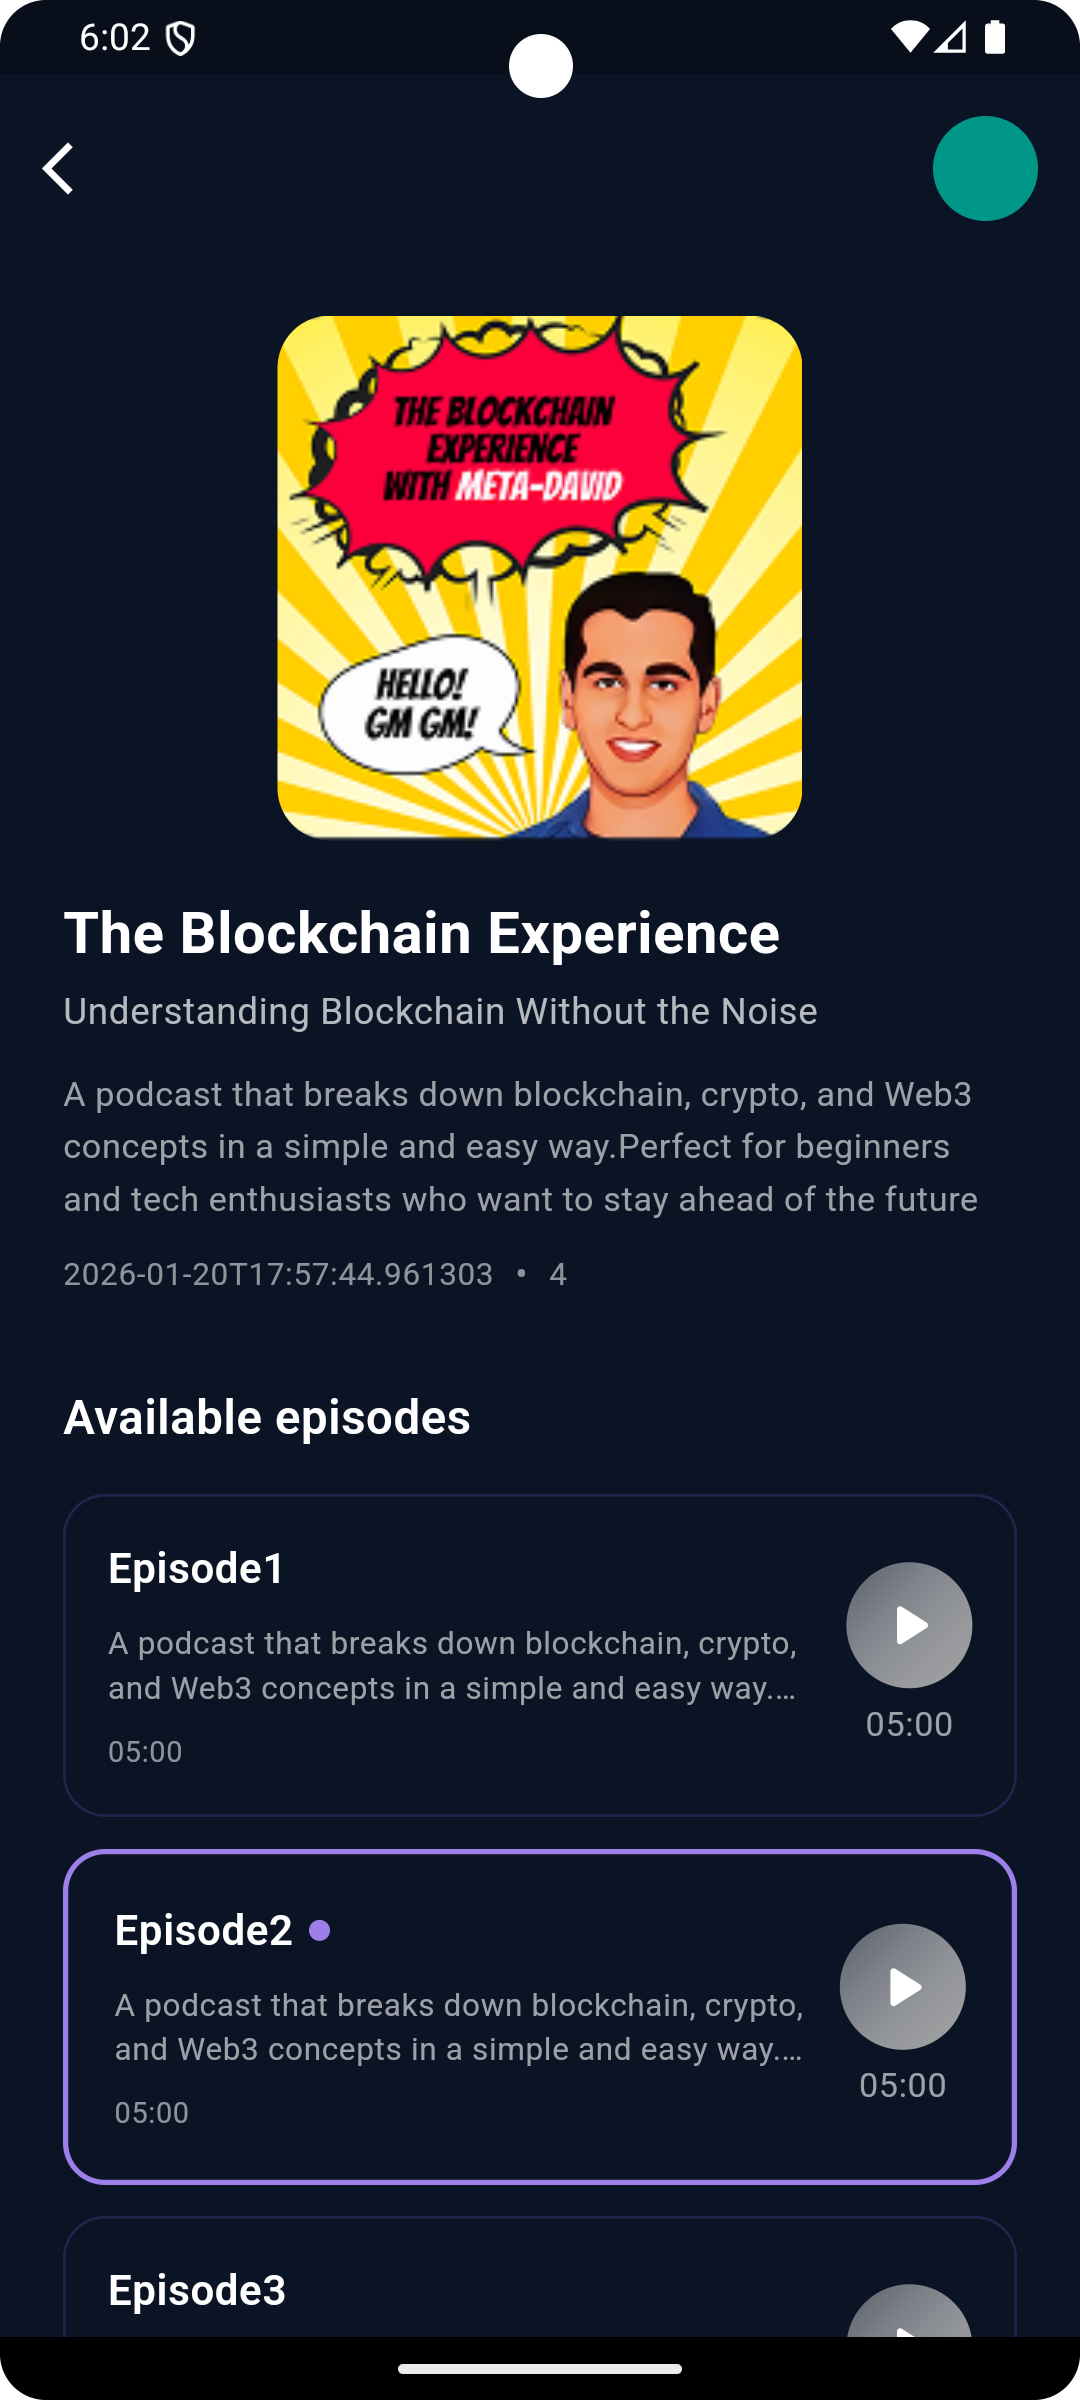
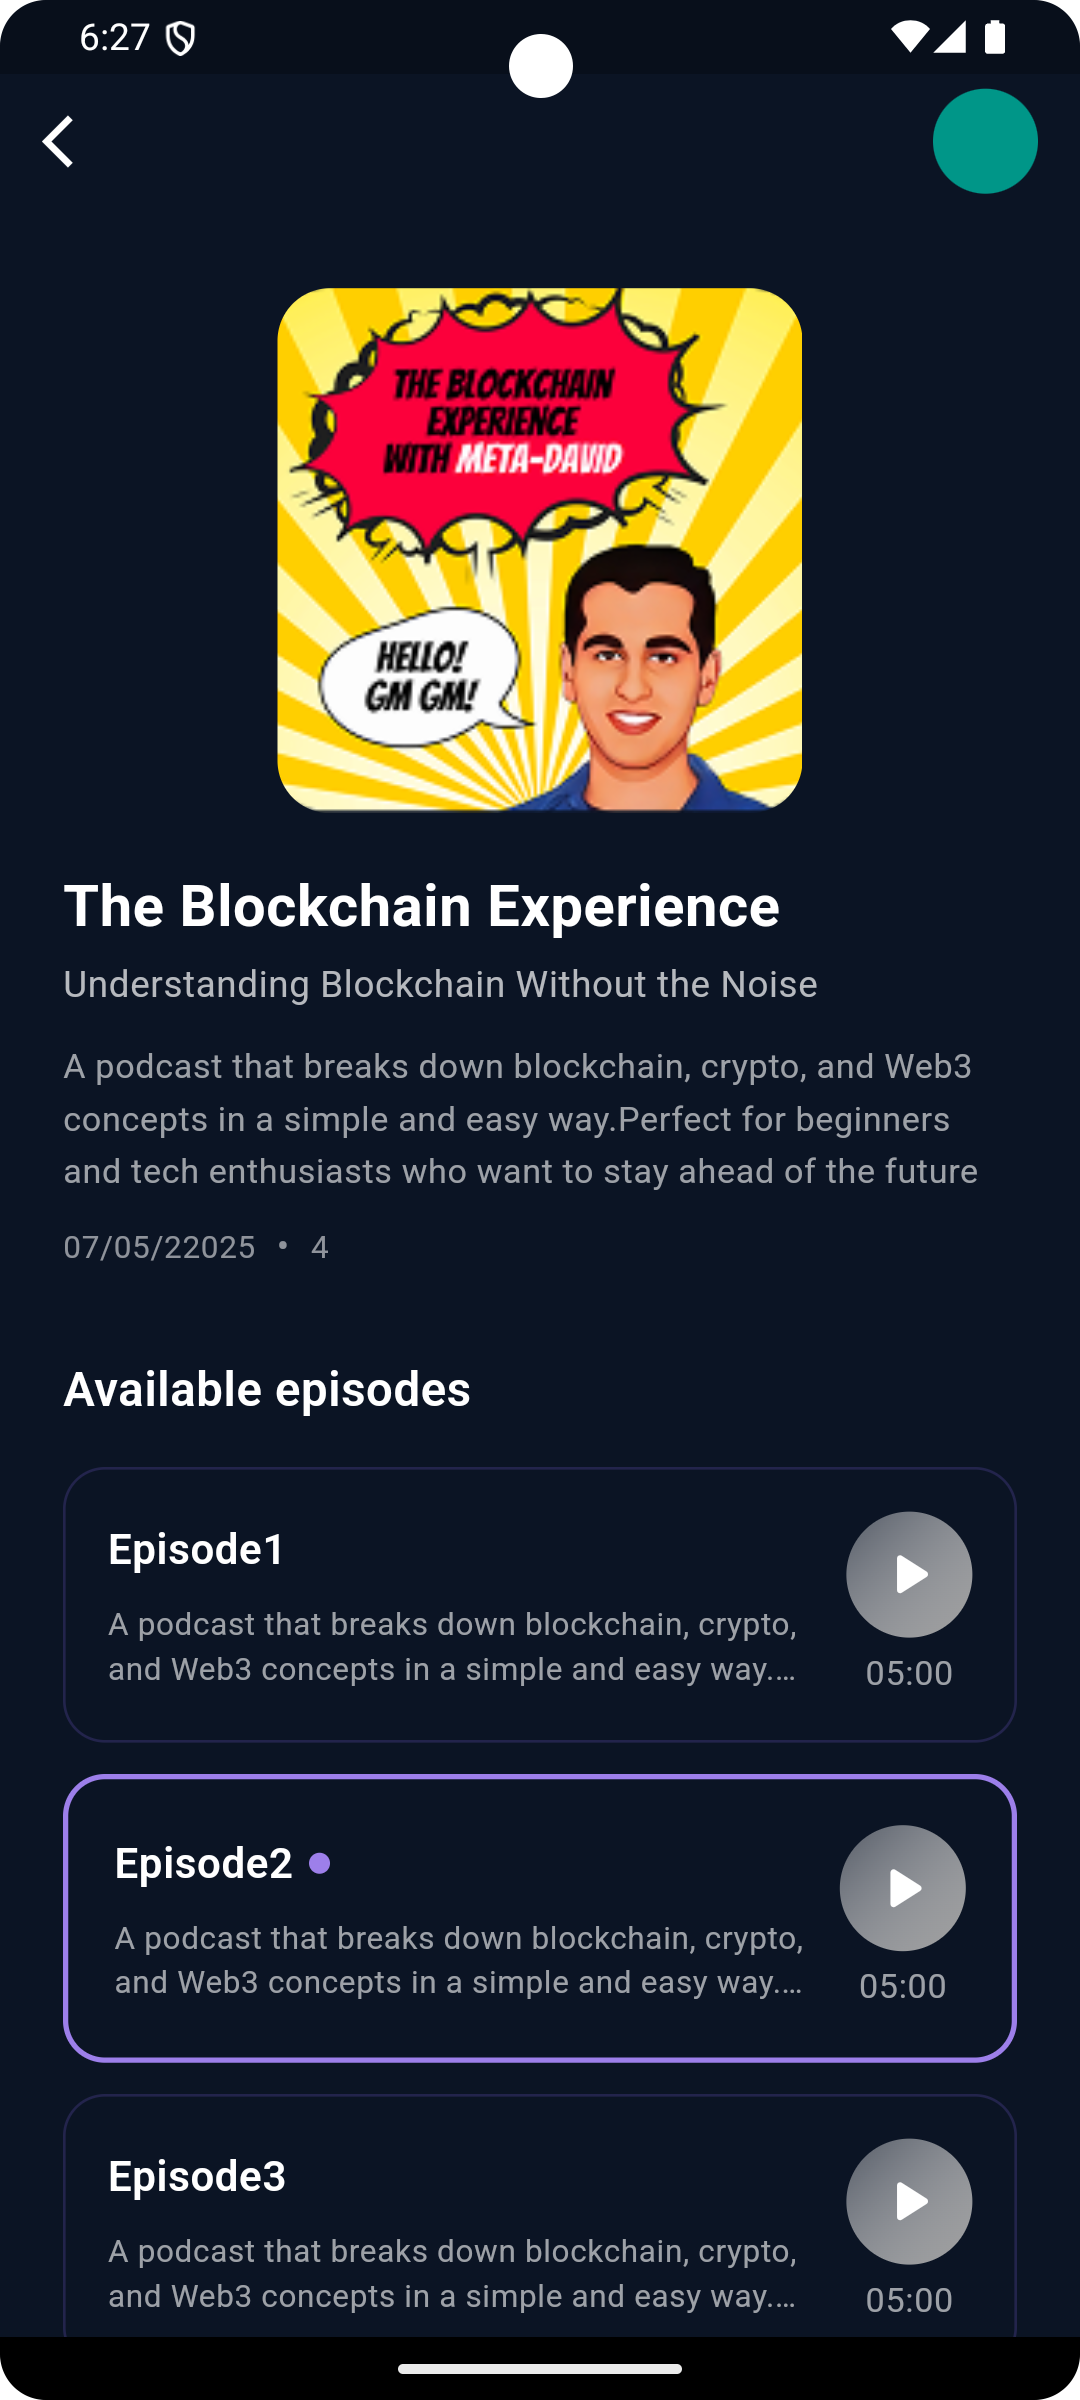
audio related setup done.

diff --git a/lib/ui/podcast/podcast_episode_playing_screen.dart b/lib/ui/podcast/podcast_episode_playing_screen.dart
@@ -16,20 +16,24 @@ class PodcastEpisodePlayingScreen extends StatefulWidget {
 
 class _PodcastEpisodePlayingScreenState
     extends State<PodcastEpisodePlayingScreen> {
-  double _currentPosition = 15.20; // Current time in minutes
-  double _totalDuration = 22.45; // Total duration in minutes
-  bool _isPlaying = true;
+  String _formatTime(Duration duration) {
+    final minutes = duration.inMinutes.remainder(60).toString().padLeft(2, '0');
+    final seconds = duration.inSeconds.remainder(60).toString().padLeft(2, '0');
+    return '$minutes:$seconds';
+  }
 
-  String _formatTime(double minutes) {
-    int mins = minutes.floor();
-    int secs = ((minutes - mins) * 60).round();
-    return '$mins:${secs.toString().padLeft(2, '0')}';
+  @override
+  void initState() {
+    super.initState();
+    loadAudio();
+  }
+
+  void loadAudio() async {
+    context.read<PodcastProvider>().loadAudio(audio: widget.podcast.audioPath);
   }
 
   @override
   Widget build(BuildContext context) {
-    final podcastP = context.read<PodcastProvider>();
-
     return Scaffold(
       backgroundColor: const Color(0xFF0B1424),
       body: SafeArea(
@@ -44,7 +48,10 @@ class _PodcastEpisodePlayingScreenState
                     IconButton(
                       icon: const Icon(Icons.arrow_back_ios,
                           color: Colors.white, size: 32),
-                      onPressed: () => Navigator.pop(context),
+                      onPressed: () {
+                        context.read<PodcastProvider>().stop();
+                        Navigator.pop(context);
+                      },
                     ),
                     const Spacer(),
                     Container(
@@ -143,59 +150,59 @@ class _PodcastEpisodePlayingScreenState
               const SizedBox(height: 32),
 
               // Progress Bar
-              Padding(
-                padding: const EdgeInsets.symmetric(horizontal: 24),
-                child: Column(
-                  children: [
-                    SliderTheme(
-                      data: SliderThemeData(
-                        trackHeight: 3,
-                        thumbShape: const RoundSliderThumbShape(
-                          enabledThumbRadius: 8,
-                        ),
-                        overlayShape: const RoundSliderOverlayShape(
-                          overlayRadius: 16,
-                        ),
-                        activeTrackColor: const Color(0xFF7E57C2),
-                        inactiveTrackColor: Colors.white24,
-                        thumbColor: Colors.white,
-                        overlayColor: const Color(0xFF7E57C2).withOpacity(0.3),
-                      ),
-                      child: Slider(
-                        value: _currentPosition,
-                        min: 0,
-                        max: _totalDuration,
-                        onChanged: (value) {
-                          setState(() {
-                            _currentPosition = value;
-                          });
-                        },
-                      ),
-                    ),
-                    Padding(
-                      padding: const EdgeInsets.symmetric(horizontal: 8),
-                      child: Row(
-                        mainAxisAlignment: MainAxisAlignment.spaceBetween,
-                        children: [
-                          Text(
-                            _formatTime(_currentPosition),
-                            style: const TextStyle(
-                              color: Colors.white70,
-                              fontSize: 12,
-                            ),
+              Consumer<PodcastProvider>(
+                builder: (context, provider, _) {
+                  final current = provider.currentPosition.inSeconds.toDouble();
+                  final total = provider.totalDuration.inSeconds.toDouble();
+
+                  return Padding(
+                    padding: const EdgeInsets.symmetric(horizontal: 24),
+                    child: Column(
+                      children: [
+                        SliderTheme(
+                          data: SliderThemeData(
+                            trackHeight: 3,
+                            thumbShape: const RoundSliderThumbShape(
+                                enabledThumbRadius: 8),
+                            overlayShape: const RoundSliderOverlayShape(
+                                overlayRadius: 16),
+                            activeTrackColor: const Color(0xFF7E57C2),
+                            inactiveTrackColor: Colors.white24,
+                            thumbColor: Colors.white,
+                            overlayColor:
+                                const Color(0xFF7E57C2).withOpacity(0.3),
                           ),
-                          Text(
-                            _formatTime(_totalDuration),
-                            style: const TextStyle(
-                              color: Colors.white70,
-                              fontSize: 12,
-                            ),
+                          child: Slider(
+                            value: current.clamp(0, total),
+                            min: 0,
+                            max: total > 0 ? total : 1,
+                            onChanged: (value) {
+                              provider.seek(Duration(seconds: value.toInt()));
+                            },
                           ),
-                        ],
-                      ),
+                        ),
+                        Padding(
+                          padding: const EdgeInsets.symmetric(horizontal: 8),
+                          child: Row(
+                            mainAxisAlignment: MainAxisAlignment.spaceBetween,
+                            children: [
+                              Text(
+                                _formatTime(provider.currentPosition),
+                                style: const TextStyle(
+                                    color: Colors.white70, fontSize: 12),
+                              ),
+                              Text(
+                                _formatTime(provider.totalDuration),
+                                style: const TextStyle(
+                                    color: Colors.white70, fontSize: 12),
+                              ),
+                            ],
+                          ),
+                        ),
+                      ],
                     ),
-                  ],
-                ),
+                  );
+                },
               ),
 
               const SizedBox(height: 10),
@@ -284,16 +291,18 @@ class _PodcastEpisodePlayingScreenState
                           ),
                         ],
                       ),
-                      child: IconButton(
-                        icon: Icon(
-                          _isPlaying ? Icons.pause : Icons.play_arrow,
-                          color: Colors.white,
-                          size: 36,
-                        ),
-                        onPressed: () {
-                          setState(() {
-                            _isPlaying = !_isPlaying;
-                          });
+                      child: Consumer<PodcastProvider>(
+                        builder: (context, p, child) {
+                          return IconButton(
+                            icon: Icon(
+                              p.isPlaying ? Icons.pause : Icons.play_arrow,
+                              color: Colors.white,
+                              size: 36,
+                            ),
+                            onPressed: () {
+                              p.togglePlayPause();
+                            },
+                          );
                         },
                       ),
                     ),
@@ -322,7 +331,7 @@ class _PodcastEpisodePlayingScreenState
                 ),
               ),
 
-// Bottom Episode Info
+              // Bottom Episode Info
               Container(
                   margin: const EdgeInsets.all(8),
                   padding: const EdgeInsets.all(4),

diff --git a/lib/data/dummy_data.dart b/lib/data/dummy_data.dart
@@ -5,8 +5,8 @@ final Podcast podcast = Podcast(
   subTitle: 'Understanding Blockchain Without the Noise',
   title: 'The Blockchain Experience',
   duration: '05:00',
-  dateTime: DateTime.now().toIso8601String(),
-  audioPath: 'assets/podcast/podcast_audio.png',
+  dateTime: '07/05/22025',
+  audioPath: 'assets/podcast/podcast_audio.mp3',
   isPlaying: true,
   description:
       "A podcast that breaks down blockchain, crypto, and Web3 concepts in a simple and easy way.Perfect for beginners and tech enthusiasts who want to stay ahead of the future",
@@ -18,8 +18,8 @@ List<Podcast> podcastList = [
     thumbnail: 'assets/images/image1.png',
     title: 'Episode1',
     duration: '05:00',
-    audioPath: 'assets/podcast/podcast_audio.png',
-    dateTime: DateTime.now().toIso8601String(),
+    audioPath: 'assets/podcast/podcast_audio.mp3',
+    dateTime: '07/05/22025',
     description:
         "A podcast that breaks down blockchain, crypto, and Web3 concepts in a simple and easy way.Perfect for beginners and tech enthusiasts who want to stay ahead of the future",
   ),
@@ -28,8 +28,8 @@ List<Podcast> podcastList = [
     thumbnail: 'assets/images/image1.png',
     title: 'Episode2',
     duration: '05:00',
-    audioPath: 'assets/podcast/podcast_audio.png',
-    dateTime: DateTime.now().toIso8601String(),
+    audioPath: 'assets/podcast/podcast_audio.mp3',
+    dateTime: '07/05/22025',
     description:
         "A podcast that breaks down blockchain, crypto, and Web3 concepts in a simple and easy way.Perfect for beginners and tech enthusiasts who want to stay ahead of the future",
   ),
@@ -38,8 +38,8 @@ List<Podcast> podcastList = [
     thumbnail: 'assets/images/image1.png',
     title: 'Episode3',
     duration: '05:00',
-    audioPath: 'assets/podcast/podcast_audio.png',
-    dateTime: DateTime.now().toIso8601String(),
+    audioPath: 'assets/podcast/podcast_audio.mp3',
+    dateTime: '07/05/22025',
     description:
         "A podcast that breaks down blockchain, crypto, and Web3 concepts in a simple and easy way.Perfect for beginners and tech enthusiasts who want to stay ahead of the future",
   ),

diff --git a/lib/providers/podcast_provider.dart b/lib/providers/podcast_provider.dart
@@ -1,12 +1,69 @@
 import 'package:flutter/material.dart';
+import 'package:just_audio/just_audio.dart';
 
 class PodcastProvider extends ChangeNotifier {
+  final AudioPlayer _audioPlayer = AudioPlayer();
+
+  bool isPlaying = false;
   double playbackSpeed = 1.0;
 
-  togglePlaySpeed(double speed) {
-    playbackSpeed = speed;
+  Duration currentPosition = Duration.zero;
+  Duration totalDuration = Duration.zero;
+
+  final List<double> speedOptions = [0.75, 1.0, 1.25, 1.5, 2.0];
+
+  // Load audio
+  Future<void> loadAudio({required String audio}) async {
+    await _audioPlayer.setAsset(audio);
+
+    totalDuration = _audioPlayer.duration ?? Duration.zero;
+    notifyListeners();
+
+    // Listen to real playing state
+    _audioPlayer.playerStateStream.listen((state) {
+      isPlaying = state.playing;
+      notifyListeners();
+    });
+
+    // Listen to position
+    _audioPlayer.positionStream.listen((position) {
+      currentPosition = position;
+      notifyListeners();
+    });
+
+    await _audioPlayer.play();
+  }
+
+  void stop() async {
+    await _audioPlayer.stop();
+  }
+
+  /// Play / Pause
+  Future<void> togglePlayPause() async {
+    if (isPlaying) {
+      await _audioPlayer.pause();
+    } else {
+      await _audioPlayer.play();
+    }
+    isPlaying = !isPlaying;
     notifyListeners();
   }
 
-  final List<double> speedOptions = [0.75, 1.0, 1.25, 1.5, 2.0];
+  /// Seek audio
+  Future<void> seek(Duration position) async {
+    await _audioPlayer.seek(position);
+  }
+
+  /// Change speed
+  Future<void> togglePlaySpeed(double speed) async {
+    playbackSpeed = speed;
+    await _audioPlayer.setSpeed(speed);
+    notifyListeners();
+  }
+
+  @override
+  void dispose() {
+    _audioPlayer.dispose();
+    super.dispose();
+  }
 }

diff --git a/lib/ui/widgets/episode_card_widget.dart b/lib/ui/widgets/episode_card_widget.dart
@@ -80,14 +80,6 @@ class EpisodeCardWidget extends StatelessWidget {
                     maxLines: 2,
                     overflow: TextOverflow.ellipsis,
                   ),
-                  const SizedBox(height: 8),
-                  Text(
-                    duration,
-                    style: const TextStyle(
-                      color: Colors.white54,
-                      fontSize: 11,
-                    ),
-                  ),
                 ],
               ),
             ),
